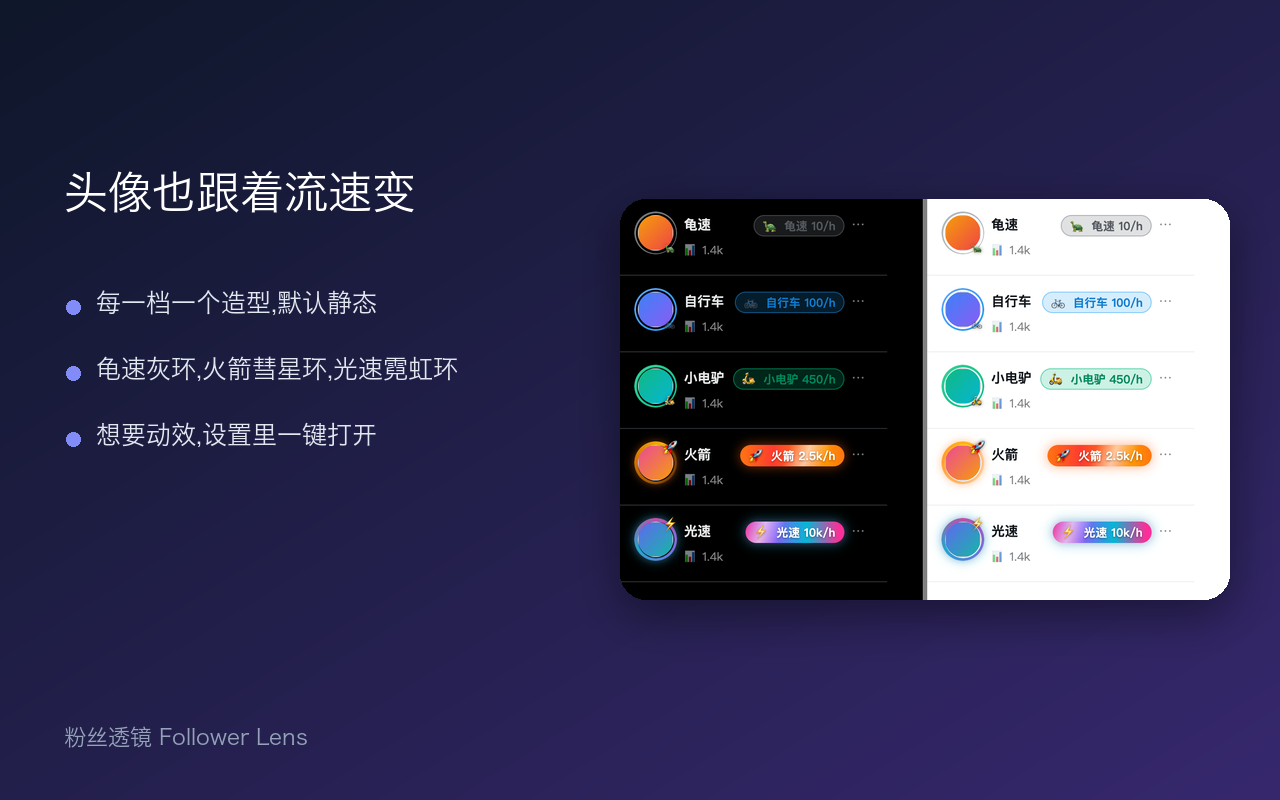
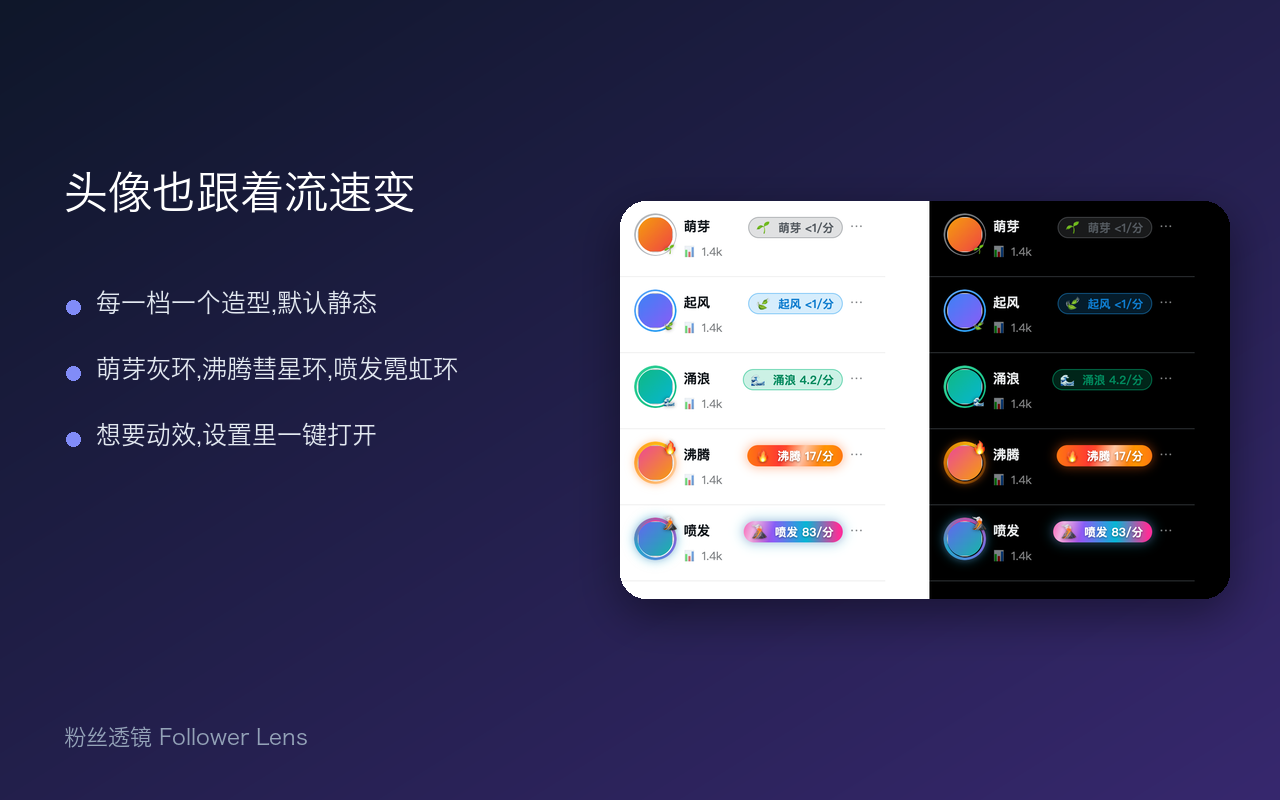
store: 商店截图/填表助手/英文说明同步 v0.17.0(五档新名字、每分钟被看、比 TA 平时)

diff --git a/store/上架填表助手.html b/store/上架填表助手.html
@@ -18,7 +18,7 @@ code{background:rgba(127,127,127,.15);padding:1px 6px;border-radius:5px;font-siz
 <div class="step"><h2><span>1</span>打开后台,上传安装包</h2>
 <ol><li>点这里打开:<a href="https://chrome.google.com/webstore/devconsole" target="_blank">Chrome 应用商店开发者后台</a>(确认登录的是 yaohongan2021 那个账号)</li>
 <li>如果后台已经有"粉丝透镜"(之前提交过 0.2.3):点进它 → 左侧 <b>"软件包"</b> → <b>"上传新软件包"</b>。<b>若状态是"审核中"就不能上传</b>,要等出结果,或先在状态旁撤回审核。没有就点 <b>"新增商品"</b></li>
-<li>把这个文件拖进去:<code>x-follower-lens-0.14.4.zip</code>(我已经在 Finder 里给你选中了,在 <code>x-follower-lens/dist</code> 文件夹)</li></ol></div>
+<li>把这个文件拖进去:<code>x-follower-lens-0.17.0.zip</code>(我已经在 Finder 里给你选中了,在 <code>x-follower-lens/dist</code> 文件夹)</li></ol></div>
 
 <div class="step"><h2><span>2</span>"商品详情"页</h2><p class="hint">没有写到的格子,保持默认。</p>
 <div class="f"><div class="fh"><b>名称</b><button onclick="cp(0,this)">复制</button></div><pre id="v0"></pre></div><div class="f"><div class="fh"><b>摘要(简短说明)</b><button onclick="cp(1,this)">复制</button></div><pre id="v1"></pre></div><div class="f"><div class="fh"><b>详细说明(中文)</b><button onclick="cp(2,this)">复制</button></div><pre id="v2"></pre></div>
@@ -41,7 +41,7 @@ code{background:rgba(127,127,127,.15);padding:1px 6px;border-radius:5px;font-siz
 <div class="warn">审核通常需要等一段时间,期间会发邮件到你的 Google 邮箱。被拒也很常见,把邮件里的拒绝原因发给我,我来改。</div></div>
 </main>
 <script>
-const V=["粉丝透镜 Follower Lens", "在 X 信息流里显示推文流速、头像流速环和内容方向标签,还能一键生成账号名片;同时显示粉丝数和质量标签。", "X 不直接显示别人的粉丝数,也看不出一条推文到底火没火。粉丝透镜把这些直接放到信息流里:\n\n【主要功能】\n• 推文流速:按\"每小时浏览量\"给每条推文标出 龟速 / 自行车 / 小电驴 / 火箭 / 光速 五档,带具体数字和 ↗↘ 升温降温趋势;鼠标放上去看浏览量、发布时间和算法口径\n• 头像流速环:作者头像按这条推文的流速加一圈环,每一档一个造型(默认静态,不晃眼;设置里可以让它转起来)\n• 内容方向标签:按账号简介和刷到的推文,标出这个博主主要做什么(AI编程、智能体、AI视频、AI设计、出海变现、投资……),每个方向一种颜色,词典可自定义\n• 账号名片:在个人主页一键生成带头像、主页地址和\"粉丝质量指数\"的图片,三种风格,可下载或复制后直接发到 X\n• 粉丝数徽标:信息流、关注列表、粉丝列表里,每个账号旁边直接显示粉丝数\n• 质量标签:互关 / 关注了你 / 大V / 高互动 / 低活跃 / 疑似互粉号 / 新号 / 老号\n• 悬停详情卡:精确粉丝数、关注数、粉丝/关注比、推文数、注册时间、互动率\n• 粉丝数变化:在你的浏览器本地记录你刷到过的账号,显示\"近 7 天涨了多少\"\n• 自适应布局:不遮挡时间、订阅按钮;头部太挤时自动换行;设置面板里每个功能都能单独开关\n\n【隐私】\n• 不收集、不上传、不出售任何数据,没有统计和广告代码\n• 只读取 X 网页自己已经收到的数据,不主动发出数据请求;唯一的例外:你点\"生成账号名片\"时会读取该账号的头像图片(来自 X 自己的图片服务器),只用于在本地画图\n• 设置和粉丝数历史只保存在你浏览器本地,可随时在设置面板里清除\n• 开源:https://github.com/yaohongan/x-follower-lens\n\n【说明】\n流速、标签和\"粉丝质量指数\"都是用公开数字做的估算,仅供参考,不代表内容或账号的质量。本扩展是个人开发的非官方工具,与 X Corp. 无关。X 改版后可能需要更新。", "https://github.com/yaohongan/x-follower-lens", "https://github.com/yaohongan/x-follower-lens/issues", "在 X(Twitter)网页上显示账号的粉丝数和质量标签,帮助用户判断账号。", "保存用户的设置(各开关、徽标位置)以及用户本地的粉丝数历史记录,用于显示\"近 7 天变化\"。数据只保存在本地,不上传。", "扩展只在 x.com 和 twitter.com 运行。它读取 X 网页自己已经收到的数据(用户名、粉丝数、关注数、注册时间、互动数),并在页面上显示徽标。不读取任何其它网站。", "扩展只在 x.com 和 twitter.com 运行。它读取 X 网页自己已经收到的数据(用户名、粉丝数、关注数、注册时间、浏览量、互动数),并在页面上显示徽标、流速标和头像环。用户点击\"生成账号名片\"时,会读取该账号的头像图片(来自 X 自己的图片服务器),只用于在本地画图。不读取任何其它网站。"];
+const V=["粉丝透镜 Follower Lens", "在 X 信息流里显示推文流速、头像流速环和内容方向标签,还能一键生成账号名片;同时显示粉丝数和质量标签。", "X 不直接显示别人的粉丝数,也看不出一条推文到底火没火。粉丝透镜把这些直接放到信息流里:\n\n【主要功能】\n• 推文流速:标出每条推文每分钟被看多少次,萌芽 / 起风 / 涌浪 / 沸腾 / 喷发 五档(如 🔥 沸腾 17/分),和账号粉丝多少无关,带 ↗↘ 升温降温趋势;鼠标放上去看累计浏览、发布多久,以及比这位作者平时快几倍\n• 头像流速环:作者头像按这条推文的流速加一圈环,每一档一个造型(默认静态,不晃眼;设置里可以让它转起来)\n• 内容方向标签:按账号简介和刷到的推文,标出这个博主主要做什么(AI编程、智能体、AI视频、AI设计、出海变现、投资……),每个方向一种颜色,词典可自定义\n• 账号名片:在个人主页一键生成带头像、主页地址和\"粉丝质量指数\"的图片,三种风格,可下载或复制后直接发到 X\n• 粉丝数徽标:信息流、关注列表、粉丝列表里,每个账号旁边直接显示粉丝数\n• 质量标签:互关 / 关注了你 / 大V / 高互动 / 低活跃 / 疑似互粉号 / 新号 / 老号\n• 悬停详情卡:精确粉丝数、关注数、粉丝/关注比、推文数、注册时间、互动率\n• 粉丝数变化:在你的浏览器本地记录你刷到过的账号,显示\"近 7 天涨了多少\"\n• 自适应布局:不遮挡时间、订阅按钮;头部太挤时自动换行;设置面板里每个功能都能单独开关\n\n【隐私】\n• 不收集、不上传、不出售任何数据,没有统计和广告代码\n• 只读取 X 网页自己已经收到的数据,不主动发出数据请求;唯一的例外:你点\"生成账号名片\"时会读取该账号的头像图片(来自 X 自己的图片服务器),只用于在本地画图\n• 设置和粉丝数历史只保存在你浏览器本地,可随时在设置面板里清除\n• 开源:https://github.com/yaohongan/x-follower-lens\n\n【说明】\n流速、标签和\"粉丝质量指数\"都是用公开数字做的估算,仅供参考,不代表内容或账号的质量。本扩展是个人开发的非官方工具,与 X Corp. 无关。X 改版后可能需要更新。", "https://github.com/yaohongan/x-follower-lens", "https://github.com/yaohongan/x-follower-lens/issues", "在 X(Twitter)网页上显示账号的粉丝数和质量标签,帮助用户判断账号。", "保存用户的设置(各开关、徽标位置)以及用户本地的粉丝数历史记录,用于显示\"近 7 天变化\"。数据只保存在本地,不上传。", "扩展只在 x.com 和 twitter.com 运行。它读取 X 网页自己已经收到的数据(用户名、粉丝数、关注数、注册时间、互动数),并在页面上显示徽标。不读取任何其它网站。", "扩展只在 x.com 和 twitter.com 运行。它读取 X 网页自己已经收到的数据(用户名、粉丝数、关注数、注册时间、浏览量、互动数),并在页面上显示徽标、流速标和头像环。用户点击\"生成账号名片\"时,会读取该账号的头像图片(来自 X 自己的图片服务器),只用于在本地画图。不读取任何其它网站。"];
 V.forEach((v,i)=>{document.getElementById('v'+i).textContent=v});
 function cp(i,b){const t=V[i];const done=()=>{b.textContent='已复制 ✓';b.classList.add('ok');setTimeout(()=>{b.textContent='复制';b.classList.remove('ok')},1800)};
  if(navigator.clipboard&&window.isSecureContext){navigator.clipboard.writeText(t).then(done).catch(()=>fb(t,done))}else fb(t,done)}
